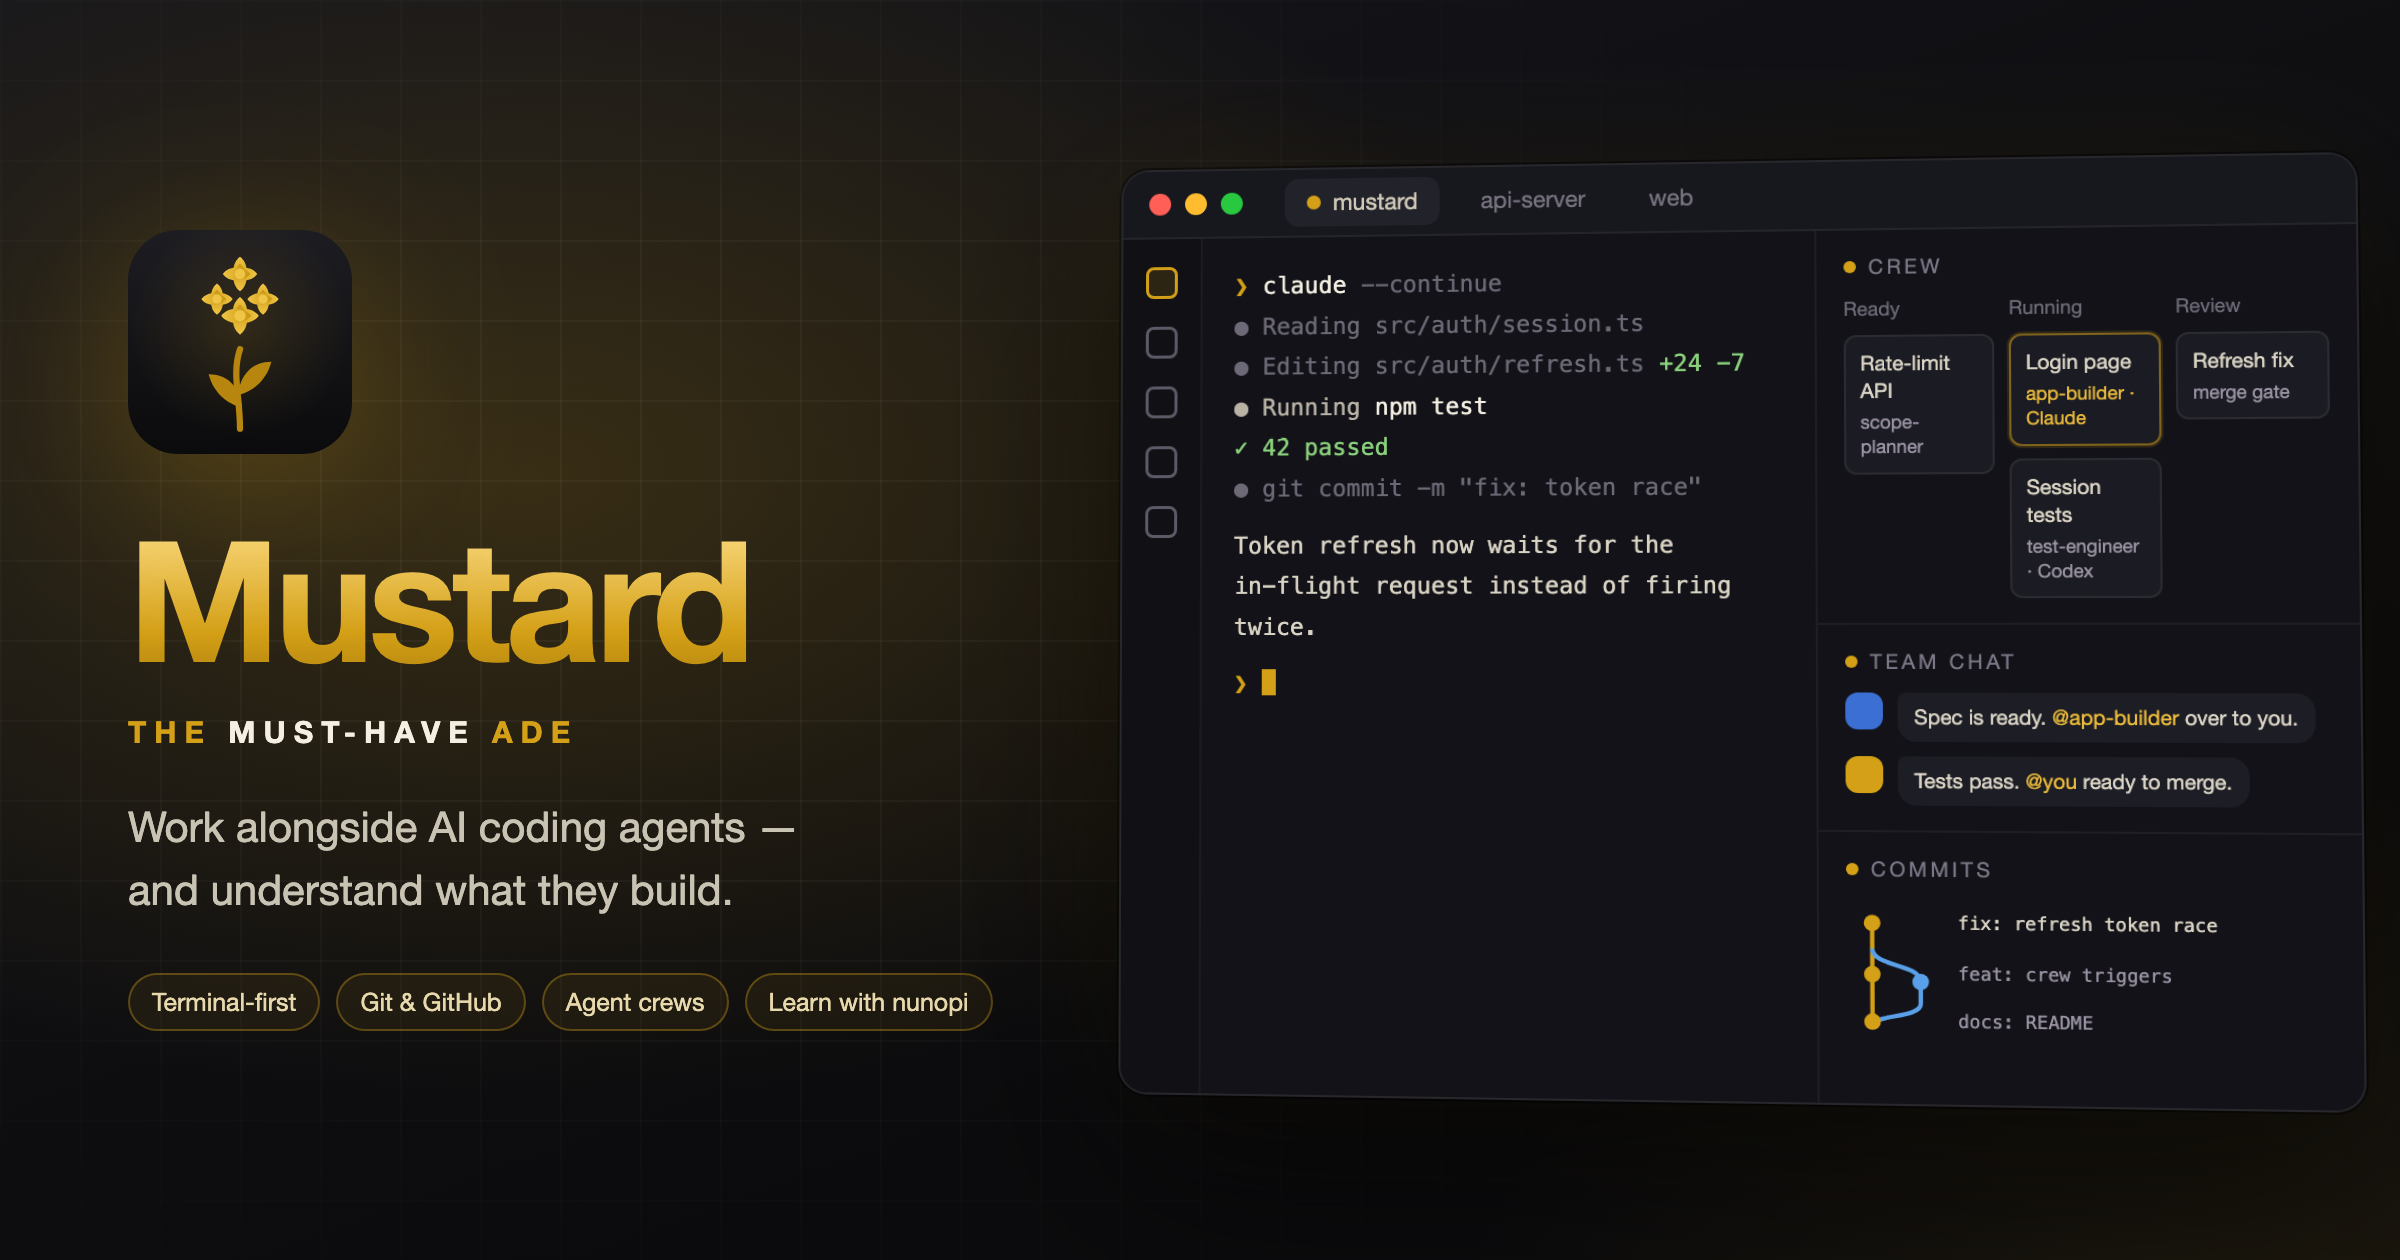
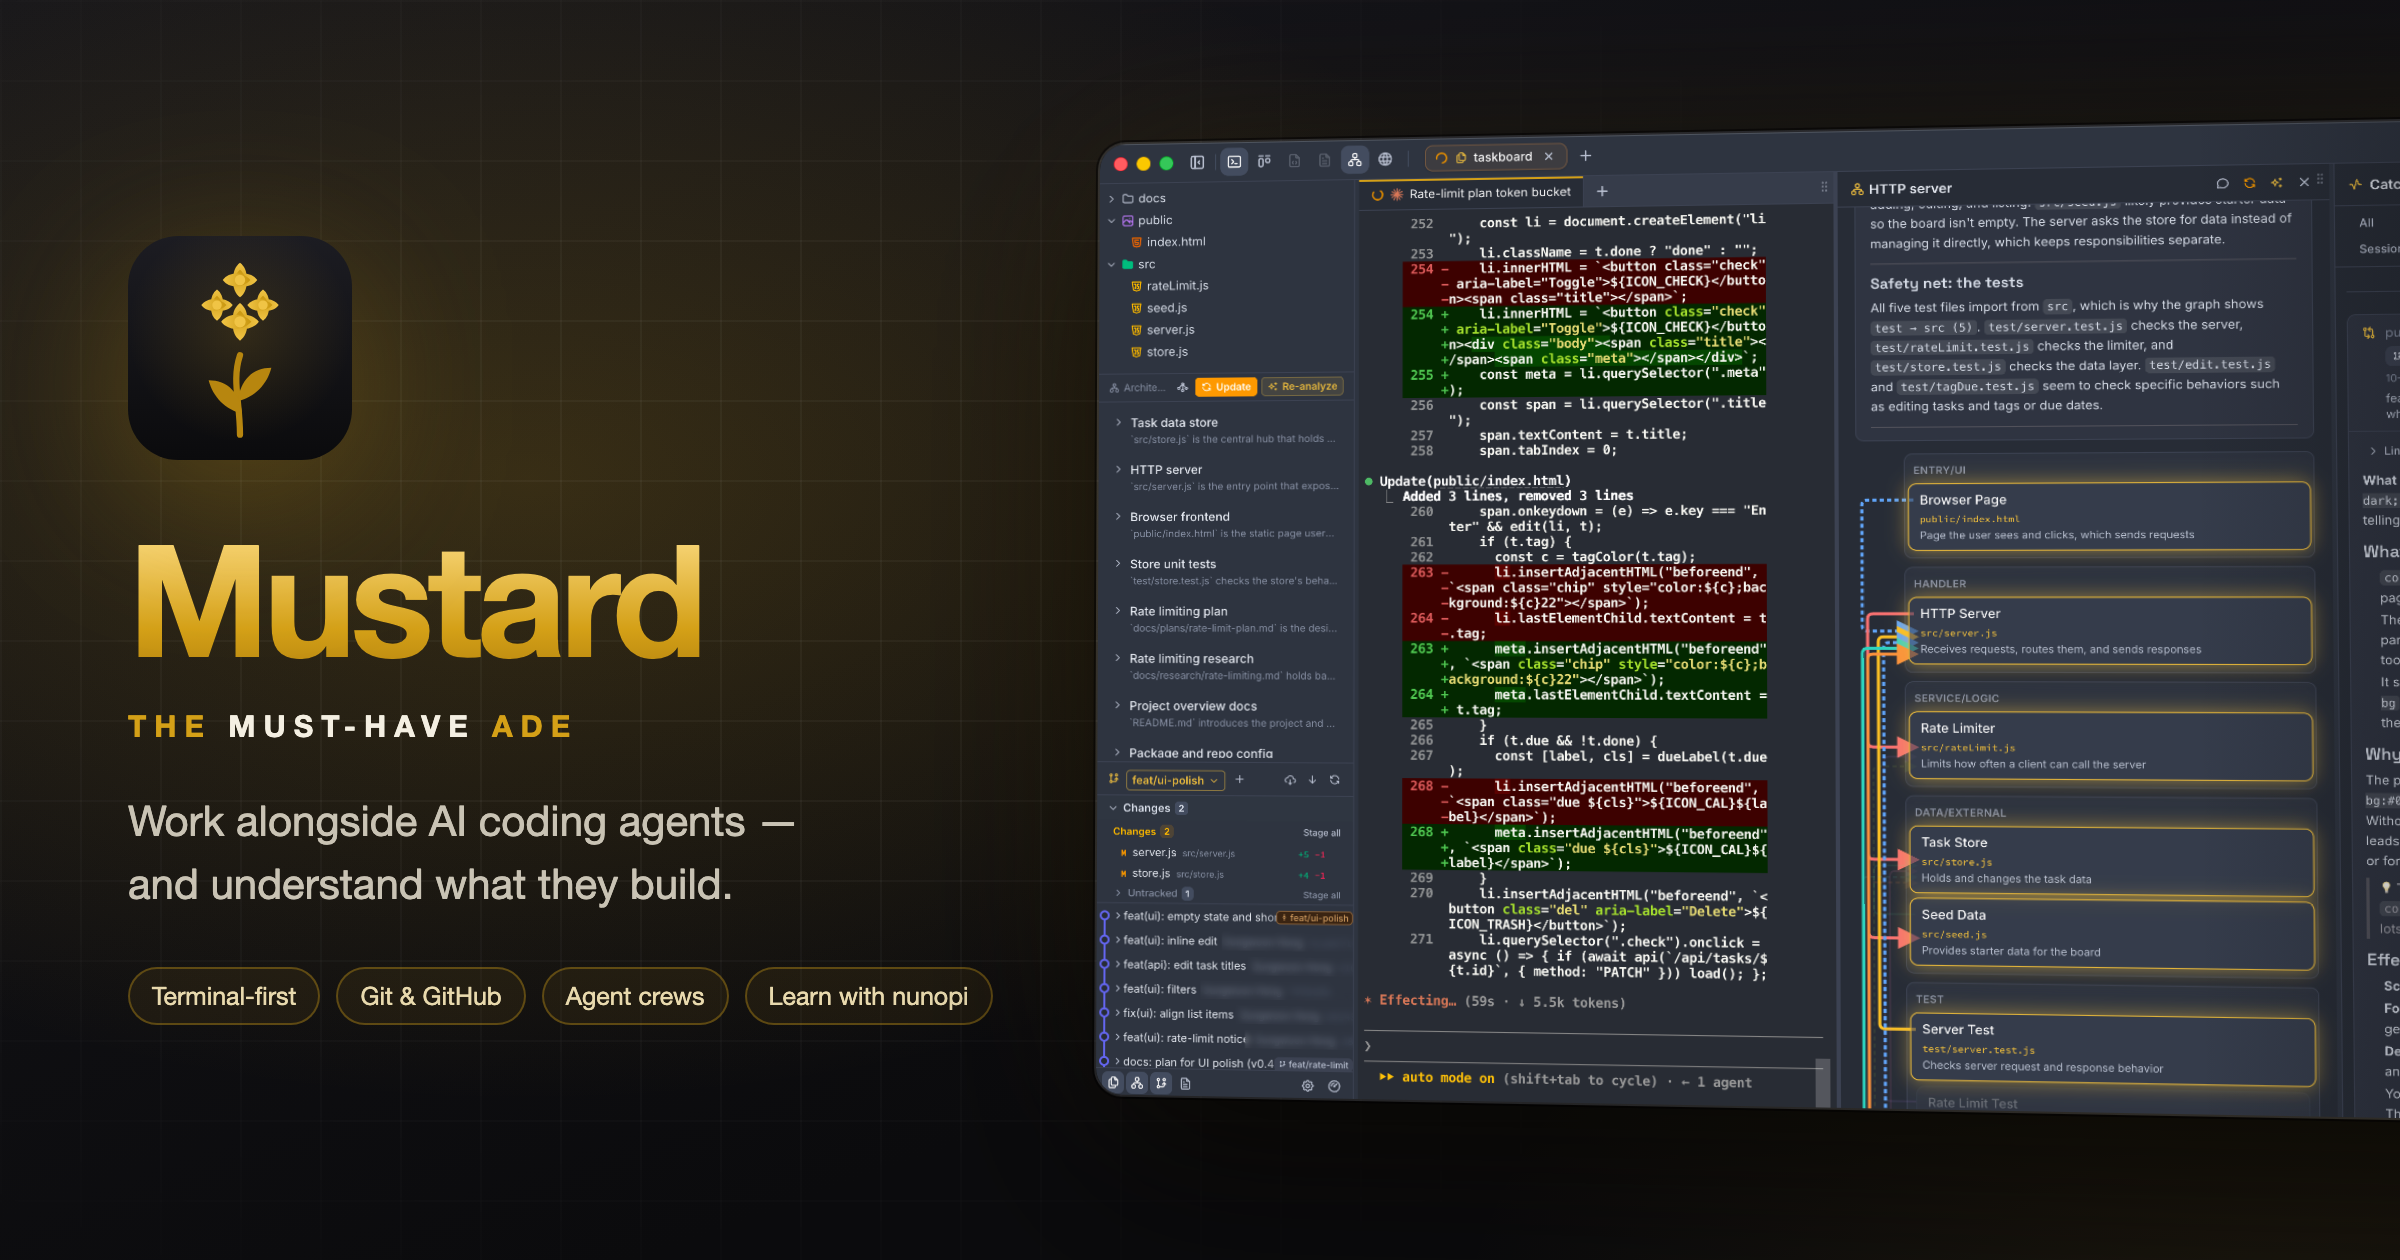
docs: 대표 이미지를 실제 앱 화면(데모 레포 taskboard, 작성자 이름 블러)으로 교체 (#1118)

diff --git a/scripts/brand/mustard-hero.html b/scripts/brand/mustard-hero.html
@@ -6,9 +6,9 @@ body{font-family:-apple-system,"SF Pro Display","Helvetica Neue",Inter,sans-seri
  background:radial-gradient(900px 520px at 22% 38%,rgba(212,160,23,.20),transparent 60%),
  radial-gradient(700px 500px at 95% 110%,rgba(212,160,23,.10),transparent 60%),linear-gradient(160deg,#16161b 0%,#0b0b0d 70%);position:relative}
 .grid{position:absolute;inset:0;background-image:linear-gradient(rgba(255,255,255,.035) 1px,transparent 1px),linear-gradient(90deg,rgba(255,255,255,.035) 1px,transparent 1px);background-size:40px 40px;mask-image:radial-gradient(800px 500px at 30% 45%,#000 30%,transparent 80%)}
-.left{position:absolute;left:64px;top:0;bottom:0;width:470px;display:flex;flex-direction:column;justify-content:center}
+.left{position:absolute;left:64px;top:0;bottom:0;width:450px;display:flex;flex-direction:column;justify-content:center}
 .icon{width:112px;height:112px;filter:drop-shadow(0 18px 40px rgba(212,160,23,.28));margin-bottom:30px}
-h1{font-size:84px;font-weight:800;letter-spacing:-3px;line-height:1;background:linear-gradient(180deg,#ffe08a,#d4a017 70%,#b7860f);-webkit-background-clip:text;color:transparent}
+h1{font-size:78px;font-weight:800;letter-spacing:-3px;line-height:1;background:linear-gradient(180deg,#ffe08a,#d4a017 70%,#b7860f);-webkit-background-clip:text;color:transparent}
 .tag{margin-top:16px;font-size:15px;font-weight:600;letter-spacing:4px;text-transform:uppercase;color:#d4a017}
 .tag b{color:#f4efe2;font-weight:700}
 p.sub{margin-top:22px;font-size:21px;line-height:1.5;color:#c9c3b4;font-weight:400}
@@ -47,6 +47,10 @@ p.sub{margin-top:22px;font-size:21px;line-height:1.5;color:#c9c3b4;font-weight:4
 .bub .m{color:#e8b93a}
 .git{padding:12px 13px;flex:1}
 svg.g{width:100%;height:70px}
+.shot{position:absolute;left:548px;top:70px;width:760px;height:477px;border-radius:14px;overflow:hidden;border:1px solid rgba(255,255,255,.10);
+ box-shadow:0 40px 90px rgba(0,0,0,.65),0 0 0 1px rgba(0,0,0,.5),0 0 90px rgba(212,160,23,.10);transform:perspective(1600px) rotateY(-7deg) rotateX(2deg);transform-origin:left center}
+.shot img{display:block;width:100%;height:100%;object-fit:cover;object-position:left top}
+.shot::after{content:"";position:absolute;inset:0;background:linear-gradient(90deg,transparent 70%,rgba(11,11,13,.55))}
 </style></head><body><div class="grid"></div>
 <div class="left">
  <div class="icon"><svg xmlns="http://www.w3.org/2000/svg" width="100%" height="100%" viewBox="0 0 120 120"><defs><linearGradient id="g" x1="0" y1="0" x2="0" y2="1"><stop offset="0" stop-color="#f0c445"/><stop offset="1" stop-color="#c8960f"/></linearGradient><linearGradient id="bg" x1="0" y1="0" x2="0" y2="1"><stop offset="0" stop-color="#1c1c22"/><stop offset="1" stop-color="#0b0b0d"/></linearGradient><radialGradient id="gl" cx="0.5" cy="0.42" r="0.5"><stop offset="0" stop-color="#d4a017" stop-opacity="0.16"/><stop offset="1" stop-color="#d4a017" stop-opacity="0"/></radialGradient></defs><rect width="120" height="120" rx="27" fill="url(#bg)"/><rect width="120" height="120" rx="27" fill="url(#gl)"/><g transform="translate(-7.2 -14.5) scale(1.12)"><path d="M60 108 C60 92 56 82 60 70" fill="none" stroke="#b7860f" stroke-width="3" stroke-linecap="round"/><path d="M59 92 C67 90 73 84 75 76 C66 76 60 82 59 92 Z" fill="#b7860f"/><path d="M61 98 C53 96 47 90 45 82 C54 82 60 88 61 98 Z" fill="#b7860f"/><g transform="translate(60 34) scale(0.55)"><g fill="url(#g)"><path d="M0 9 C-7 3 -8 -9 0 -15 C8 -9 7 3 0 9 Z" transform="rotate(0)"/><path d="M0 9 C-7 3 -8 -9 0 -15 C8 -9 7 3 0 9 Z" transform="rotate(90)"/><path d="M0 9 C-7 3 -8 -9 0 -15 C8 -9 7 3 0 9 Z" transform="rotate(180)"/><path d="M0 9 C-7 3 -8 -9 0 -15 C8 -9 7 3 0 9 Z" transform="rotate(270)"/></g><circle cx="0" cy="0" r="4.5" fill="#f0c445"/></g><g transform="translate(49 46) scale(0.5)"><g fill="url(#g)"><path d="M0 9 C-7 3 -8 -9 0 -15 C8 -9 7 3 0 9 Z" transform="rotate(0)"/><path d="M0 9 C-7 3 -8 -9 0 -15 C8 -9 7 3 0 9 Z" transform="rotate(90)"/><path d="M0 9 C-7 3 -8 -9 0 -15 C8 -9 7 3 0 9 Z" transform="rotate(180)"/><path d="M0 9 C-7 3 -8 -9 0 -15 C8 -9 7 3 0 9 Z" transform="rotate(270)"/></g><circle cx="0" cy="0" r="4.5" fill="#f0c445"/></g><g transform="translate(71 46) scale(0.5)"><g fill="url(#g)"><path d="M0 9 C-7 3 -8 -9 0 -15 C8 -9 7 3 0 9 Z" transform="rotate(0)"/><path d="M0 9 C-7 3 -8 -9 0 -15 C8 -9 7 3 0 9 Z" transform="rotate(90)"/><path d="M0 9 C-7 3 -8 -9 0 -15 C8 -9 7 3 0 9 Z" transform="rotate(180)"/><path d="M0 9 C-7 3 -8 -9 0 -15 C8 -9 7 3 0 9 Z" transform="rotate(270)"/></g><circle cx="0" cy="0" r="4.5" fill="#f0c445"/></g><g transform="translate(60 54) scale(0.6)"><g fill="url(#g)"><path d="M0 9 C-7 3 -8 -9 0 -15 C8 -9 7 3 0 9 Z" transform="rotate(0)"/><path d="M0 9 C-7 3 -8 -9 0 -15 C8 -9 7 3 0 9 Z" transform="rotate(90)"/><path d="M0 9 C-7 3 -8 -9 0 -15 C8 -9 7 3 0 9 Z" transform="rotate(180)"/><path d="M0 9 C-7 3 -8 -9 0 -15 C8 -9 7 3 0 9 Z" transform="rotate(270)"/></g><circle cx="0" cy="0" r="4.5" fill="#f0c445"/></g></g></svg>
@@ -56,40 +60,5 @@ svg.g{width:100%;height:70px}
  <p class="sub">Work alongside AI coding agents —<br>and understand what they build.</p>
  <div class="chips"><span class="chip">Terminal-first</span><span class="chip">Git &amp; GitHub</span><span class="chip">Agent crews</span><span class="chip">Learn with nunopi</span></div>
 </div>
-<div class="win">
- <div class="bar"><span class="dot" style="background:#ff5f57"></span><span class="dot" style="background:#febc2e"></span><span class="dot" style="background:#28c840"></span>
-  <span class="tab"><i></i>mustard</span><span class="tab dim">api-server</span><span class="tab dim">web</span></div>
- <div class="body">
-  <div class="rail"><span class="on"></span><span></span><span></span><span></span><span></span></div>
-  <div class="term">
-   <div><span class="p">❯</span> <span class="hl">claude</span> <span class="dim">--continue</span></div>
-   <div class="dim">● Reading src/auth/session.ts</div>
-   <div class="dim">● Editing src/auth/refresh.ts <span class="ok">+24 −7</span></div>
-   <div>● Running <span class="hl">npm test</span></div>
-   <div class="ok">  ✓ 42 passed</div>
-   <div class="dim">● git commit -m "fix: token race"</div>
-   <div style="margin-top:8px;color:#d9d3c4">Token refresh now waits for the</div>
-   <div style="color:#d9d3c4">in-flight request instead of firing twice.</div>
-   <div style="margin-top:8px"><span class="p">❯</span> <span class="cur"></span></div>
-  </div>
-  <div class="side">
-   <div class="pane"><div class="h"><b></b>Crew</div>
-    <div class="cols">
-     <div class="col"><small>Ready</small><div class="card">Rate-limit API<em>scope-planner</em></div></div>
-     <div class="col"><small>Running</small><div class="card run">Login page<em>app-builder · Claude</em></div><div class="card">Session tests<em>test-engineer · Codex</em></div></div>
-     <div class="col"><small>Review</small><div class="card">Refresh fix<em>merge gate</em></div></div>
-    </div></div>
-   <div class="pane"><div class="h"><b></b>Team chat</div>
-    <div class="chat">
-     <div class="msg"><span class="av" style="background:#3b6fd4"></span><div class="bub">Spec is ready. <span class="m">@app-builder</span> over to you.</div></div>
-     <div class="msg"><span class="av" style="background:#d4a017"></span><div class="bub">Tests pass. <span class="m">@you</span> ready to merge.</div></div>
-    </div></div>
-   <div class="git"><div class="h"><b></b>Commits</div>
-    <svg class="g" viewBox="0 0 260 70"><path d="M14 4 V66" stroke="#d4a017" stroke-width="2.4"/><path d="M14 22 C14 32 40 30 40 40 V52 C40 60 14 58 14 64" stroke="#5aa0e8" stroke-width="2.4" fill="none"/>
-     <circle cx="14" cy="8" r="4.5" fill="#d4a017"/><circle cx="40" cy="40" r="4.5" fill="#5aa0e8"/><circle cx="14" cy="36" r="4.5" fill="#d4a017"/><circle cx="14" cy="62" r="4.5" fill="#d4a017"/>
-     <text x="60" y="11" fill="#d9d3c4" font-size="10" font-family="SF Mono,Menlo">fix: refresh token race</text><text x="60" y="39" fill="#9a93a3" font-size="10" font-family="SF Mono,Menlo">feat: crew triggers</text><text x="60" y="65" fill="#9a93a3" font-size="10" font-family="SF Mono,Menlo">docs: README</text></svg>
-   </div>
-  </div>
- </div>
-</div>
+<div class="shot"><img src="app-screenshot.png" alt=""></div>
 </body></html>
